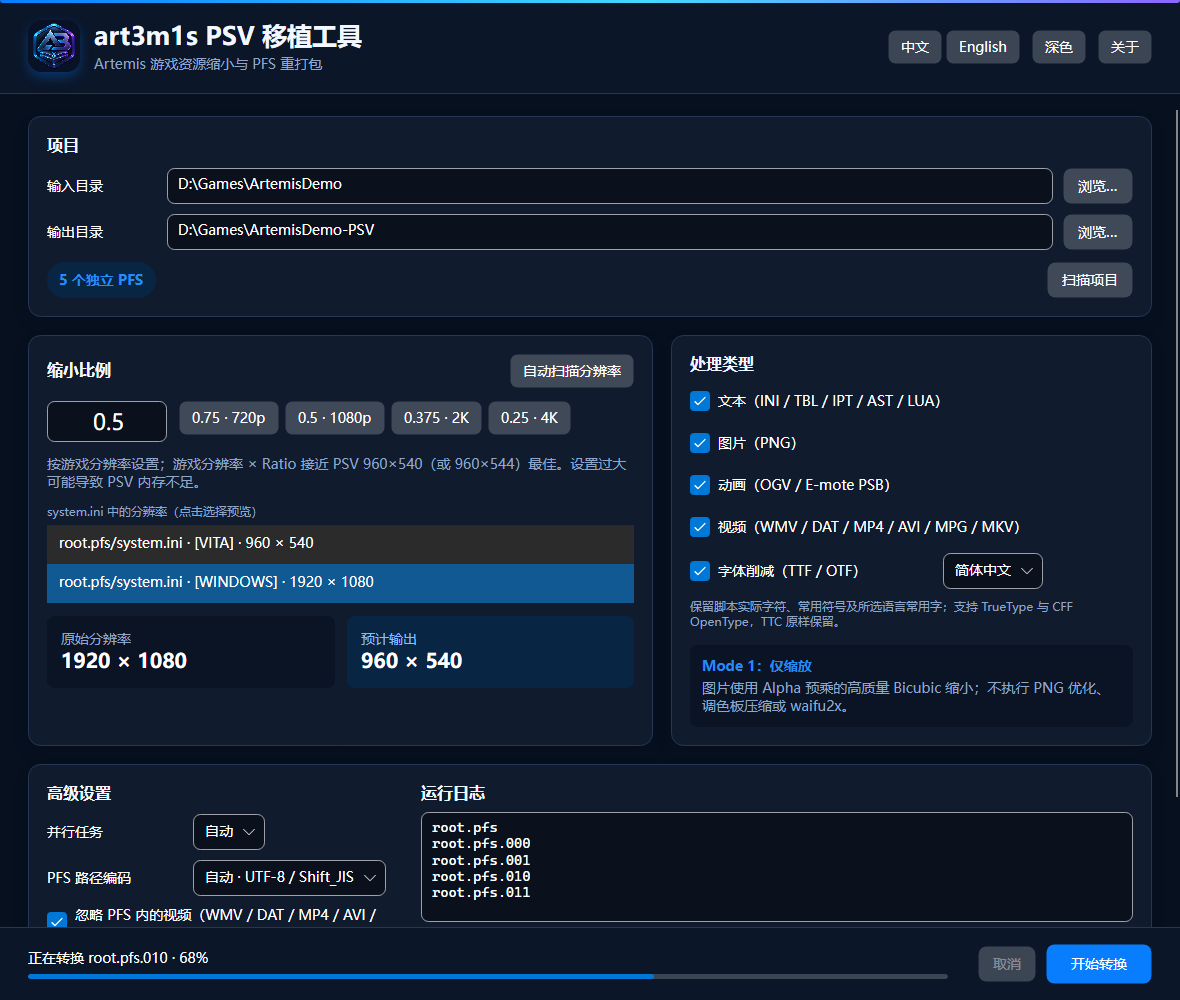
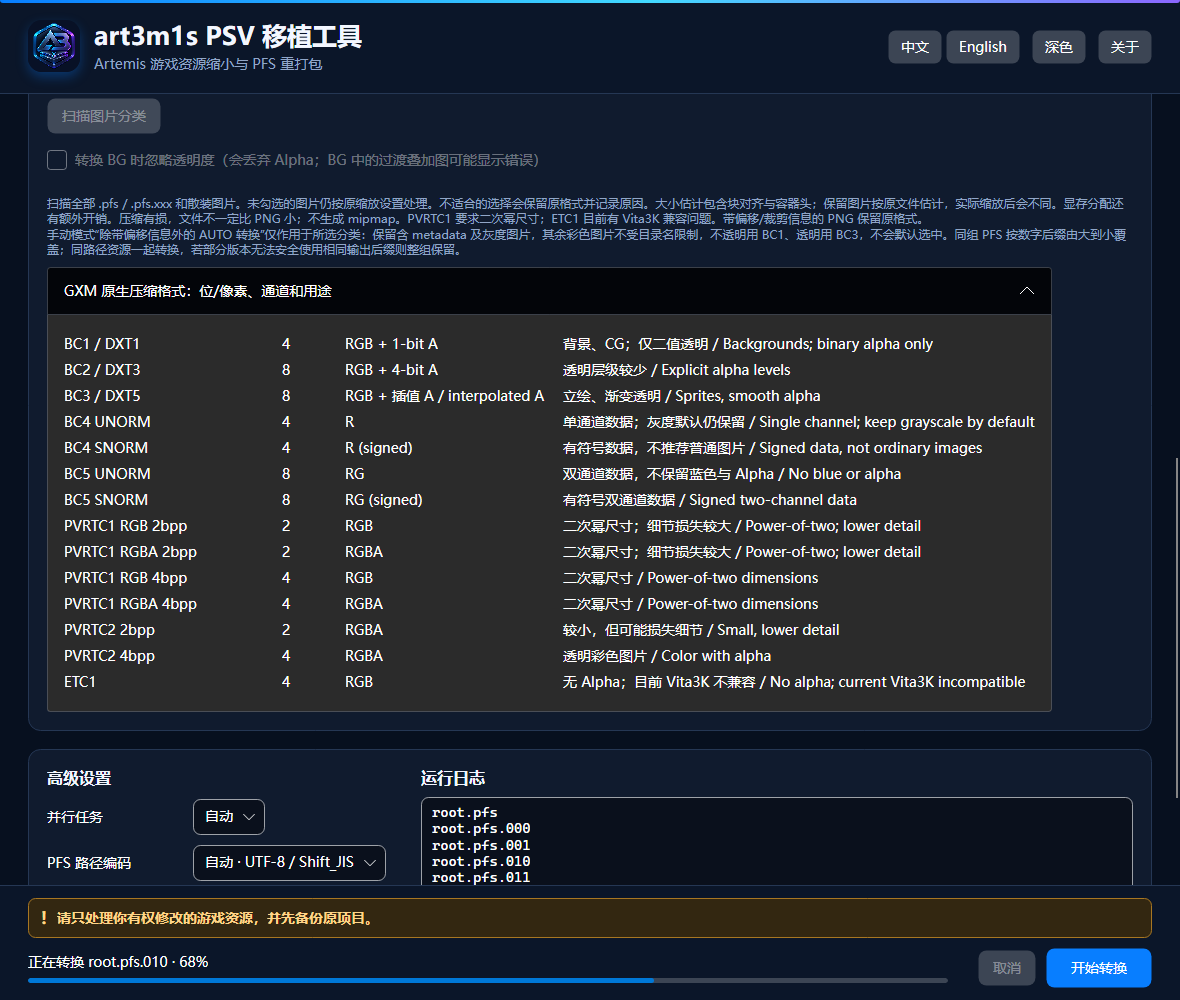
feat(ui): show persistent asset rights and backup warning

diff --git a/src/Art3m1s.PsvTool.App/MainViewModel.cs b/src/Art3m1s.PsvTool.App/MainViewModel.cs
@@ -113,6 +113,7 @@ public sealed partial class MainViewModel : INotifyPropertyChanged
     public bool IsDark { get; private set; } = true;
 
     public string Title => L("Title"); public string Subtitle => L("Subtitle"); public string ProjectLabel => L("Project");
+    public string AssetRightsBackupWarning => L("AssetRightsBackupWarning");
     public string InputLabel => L("Input"); public string OutputLabel => L("Output"); public string BrowseLabel => L("Browse");
     public string ScanLabel => L("Scan"); public string RatioLabel => L("Ratio"); public string RatioHelp => L("RatioHelp");
     public string AutoScanResolutionLabel => L("AutoScanResolution");
@@ -264,6 +265,6 @@ public sealed partial class MainViewModel : INotifyPropertyChanged
     {
         RefreshTextures();
         foreach (string name in new[] { nameof(NativeTexturesLabel), nameof(NativeTexturesHelp), nameof(ScanTexturesLabel), nameof(IgnoreBackgroundAlphaLabel), nameof(TextureHelp), nameof(TextureFormatsLabel) }) OnPropertyChanged(name);
-        foreach (string property in new[] { nameof(Title), nameof(Subtitle), nameof(ProjectLabel), nameof(InputLabel), nameof(OutputLabel), nameof(BrowseLabel), nameof(ScanLabel), nameof(AutoScanResolutionLabel), nameof(ResolutionListLabel), nameof(ResolutionChoices), nameof(RatioLabel), nameof(RatioHelp), nameof(OriginalLabel), nameof(TargetLabel), nameof(TypesLabel), nameof(TextLabel), nameof(ImagesLabel), nameof(AnimationLabel), nameof(VideoLabel), nameof(FontSubsetLabel), nameof(FontSubsetHelp), nameof(FontProfiles), nameof(ParallelChoices), nameof(ModeLabel), nameof(ModeHelp), nameof(AdvancedLabel), nameof(ParallelLabel), nameof(AutoLabel), nameof(EncodingLabel), nameof(IgnorePfsVideosLabel), nameof(ConvertEmotePsbTexturesToDxt5Label), nameof(ConvertEmotePsbTexturesToDxt5Help), nameof(LogLabel), nameof(StartLabel), nameof(CancelLabel), nameof(AboutLabel), nameof(AboutBody), nameof(ProjectRepositoryLabel), nameof(ThemeLabel), nameof(ThemeValue), nameof(ScanSummary), nameof(OriginalResolution), nameof(TargetResolution), nameof(Language) }) OnPropertyChanged(property);
+        foreach (string property in new[] { nameof(Title), nameof(Subtitle), nameof(ProjectLabel), nameof(AssetRightsBackupWarning), nameof(InputLabel), nameof(OutputLabel), nameof(BrowseLabel), nameof(ScanLabel), nameof(AutoScanResolutionLabel), nameof(ResolutionListLabel), nameof(ResolutionChoices), nameof(RatioLabel), nameof(RatioHelp), nameof(OriginalLabel), nameof(TargetLabel), nameof(TypesLabel), nameof(TextLabel), nameof(ImagesLabel), nameof(AnimationLabel), nameof(VideoLabel), nameof(FontSubsetLabel), nameof(FontSubsetHelp), nameof(FontProfiles), nameof(ParallelChoices), nameof(ModeLabel), nameof(ModeHelp), nameof(AdvancedLabel), nameof(ParallelLabel), nameof(AutoLabel), nameof(EncodingLabel), nameof(IgnorePfsVideosLabel), nameof(ConvertEmotePsbTexturesToDxt5Label), nameof(ConvertEmotePsbTexturesToDxt5Help), nameof(LogLabel), nameof(StartLabel), nameof(CancelLabel), nameof(AboutLabel), nameof(AboutBody), nameof(ProjectRepositoryLabel), nameof(ThemeLabel), nameof(ThemeValue), nameof(ScanSummary), nameof(OriginalResolution), nameof(TargetResolution), nameof(Language) }) OnPropertyChanged(property);
     }
 }

diff --git a/tests/Art3m1s.PsvTool.Ui.Tests/UiTests.cs b/tests/Art3m1s.PsvTool.Ui.Tests/UiTests.cs
@@ -26,6 +26,7 @@ public sealed class UiTests
         Assert.True(viewModel.ConvertEmotePsbTexturesToDxt5);
         Assert.Equal("E-mote PSB 纹理转 DXT5（BC3）", viewModel.ConvertEmotePsbTexturesToDxt5Label);
         Assert.Equal("自动扫描分辨率", viewModel.AutoScanResolutionLabel);
+        Assert.Equal("请只处理你有权修改的游戏资源，并先备份原项目。", viewModel.AssetRightsBackupWarning);
         Assert.Contains("WMV / DAT / MP4 / AVI / MPG / MKV", viewModel.IgnorePfsVideosLabel);
         Assert.DoesNotContain("OGV", viewModel.IgnorePfsVideosLabel);
     }
@@ -34,7 +35,9 @@ public sealed class UiTests
     public void LanguageSwitchUpdatesLongLabels()
     {
         Localizer localizer = new(); MainViewModel viewModel = new(localizer, settings: new MemorySettingsStore());
-        localizer.SetLanguage("en-US");
+        List<string?> changed = [];
+        viewModel.PropertyChanged += (_, args) => changed.Add(args.PropertyName);
+        viewModel.SetLanguage("en-US");
         Assert.Equal("Video (WMV / DAT / MP4 / AVI / MPG / MKV)", viewModel.VideoLabel);
         Assert.Equal("Font subsetting (TTF / OTF)", viewModel.FontSubsetLabel);
         Assert.Equal("Animation (OGV / E-mote PSB)", viewModel.AnimationLabel);
@@ -43,6 +46,8 @@ public sealed class UiTests
         Assert.Equal("Project GitHub", viewModel.ProjectRepositoryLabel);
         Assert.Equal("Convert E-mote PSB textures to DXT5 (BC3)", viewModel.ConvertEmotePsbTexturesToDxt5Label);
         Assert.Equal("Detect resolution", viewModel.AutoScanResolutionLabel);
+        Assert.Equal("Only process game assets you are authorized to modify, and back up the original project first.", viewModel.AssetRightsBackupWarning);
+        Assert.Contains(nameof(MainViewModel.AssetRightsBackupWarning), changed);
     }
 
     [Fact]

diff --git a/src/Art3m1s.PsvTool.App/Localization.cs b/src/Art3m1s.PsvTool.App/Localization.cs
@@ -17,6 +17,7 @@ public sealed class Localizer : ILocalizer
         ["Title"] = "art3m1s PSV 移植工具",
         ["Subtitle"] = "Artemis 游戏资源缩小与 PFS 重打包",
         ["Project"] = "项目",
+        ["AssetRightsBackupWarning"] = "请只处理你有权修改的游戏资源，并先备份原项目。",
         ["Input"] = "输入目录",
         ["Output"] = "输出目录",
         ["Browse"] = "浏览…",
@@ -86,6 +87,7 @@ public sealed class Localizer : ILocalizer
         ["Title"] = "art3m1s PSV Port Tool",
         ["Subtitle"] = "Resize Artemis game assets and rebuild independent PFS archives",
         ["Project"] = "Project",
+        ["AssetRightsBackupWarning"] = "Only process game assets you are authorized to modify, and back up the original project first.",
         ["Input"] = "Input folder",
         ["Output"] = "Output folder",
         ["Browse"] = "Browse…",

diff --git a/CHANGELOG.md b/CHANGELOG.md
@@ -4,6 +4,11 @@
 
 This file records user-facing changes by application version. Dates use China Standard Time. Historical entries are based on repository commits and tags. Update this file and `Directory.Build.props` before tagging a release; CI and Release check for a matching entry and version.
 
+## 未发布 / Unreleased
+
+- 在主界面固定底栏显示游戏资源修改权限与备份提醒；中文、英文界面均可见。
+- Added a persistent bilingual reminder about asset rights and backing up the original project.
+
 ## [1.0.12] - 2026-09-30
 
 - 修复带编号 PFS 归档的覆盖关系，原生纹理转换时不再丢失或错误覆盖分卷中的资源；补充对应测试。
